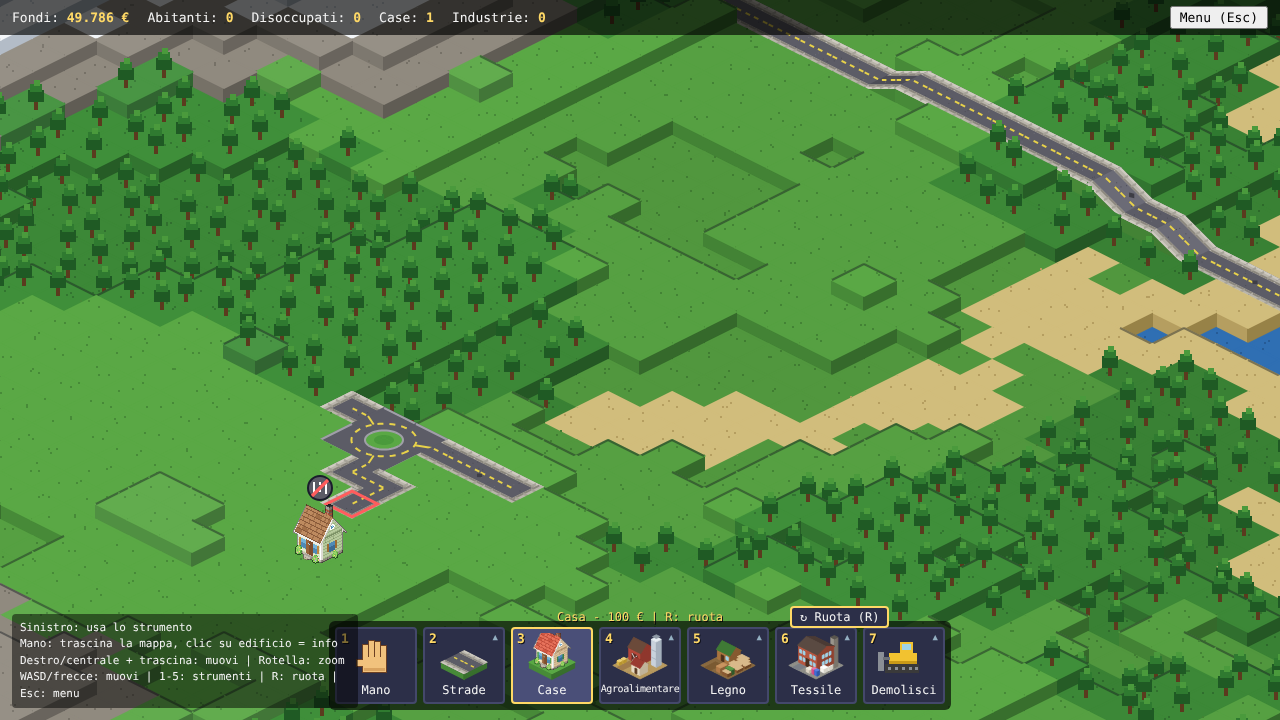
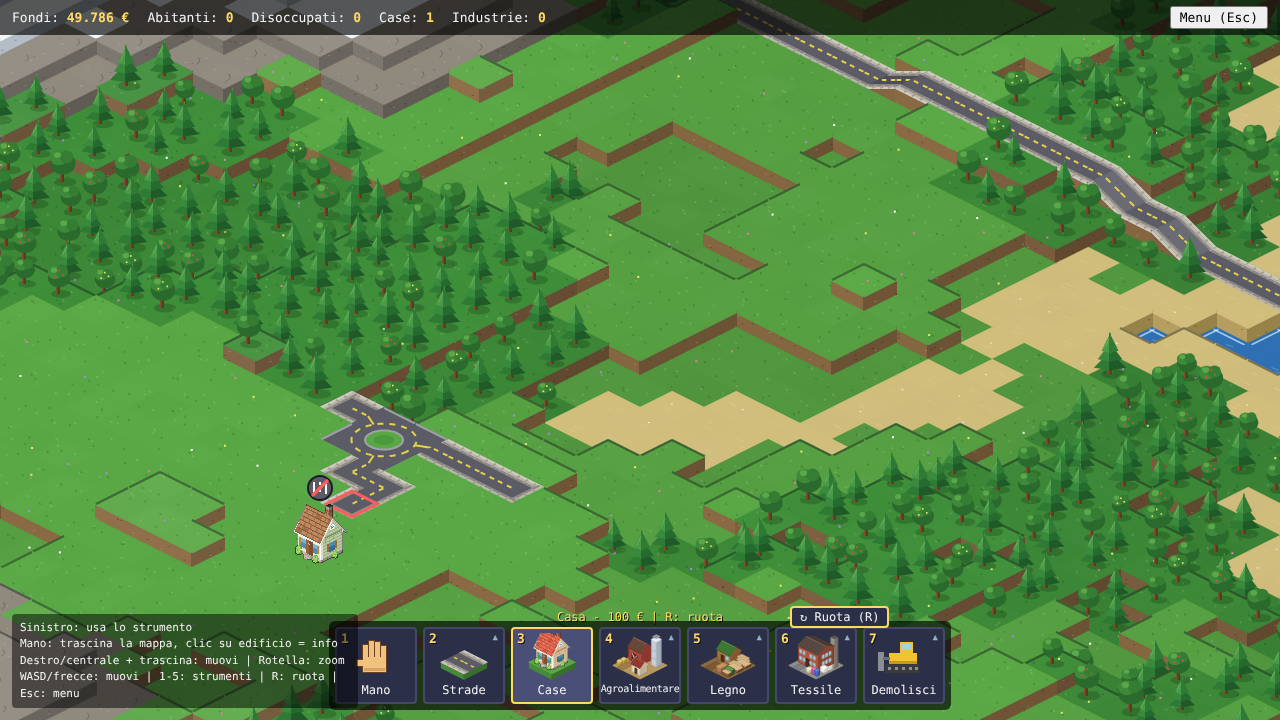
Grafica migliorata: edifici (mattoni, contorni, tegole, vetrate), terreno, scarpate, acqua, alberi, binari; tolti i tombini neri dalle strade
Claude-Session: https://claude.ai/code/session_01EPii4HtPudbMHHXMoA5j75

diff --git a/js/render.js b/js/render.js
@@ -33,6 +33,19 @@ function poly(c, pts, color) {
   c.closePath(); c.fill(); c.stroke();
 }
 
+// Livello di dettaglio: falso quando lo zoom è lontano (si disegna più semplice per andare veloci)
+let DETAIL = true;
+let FINE = true;    // dettagli minuti (ciuffi, sassi, alberi elaborati): solo da zoom 2 in su
+
+// linea sottile (mezzo pixel del mondo = 1 pixel dello schermo a zoom normale) con trasparenza
+function aline(c, a, b, color, alpha, w) {
+  const ga = c.globalAlpha;
+  c.globalAlpha = ga * (alpha == null ? 1 : alpha);
+  c.strokeStyle = color; c.lineWidth = w || 0.5;
+  c.beginPath(); c.moveTo(a[0], a[1]); c.lineTo(b[0], b[1]); c.stroke();
+  c.globalAlpha = ga;
+}
+
 function line(c, a, b, color) {
   c.strokeStyle = color; c.lineWidth = 1;
   c.beginPath(); c.moveTo(a[0], a[1]); c.lineTo(b[0], b[1]); c.stroke();
@@ -55,14 +68,82 @@ function surface(x, y) {
   return (u, v) => iso(x, y, u, v, heightIn(h, u, v));
 }
 
+// Alberi: pini e latifoglie (scelti a caso ma sempre uguali per ogni tile), con ombra a terra,
+// luce da sinistra e un po' di variazione di grandezza. Da lontano la versione semplice.
 function drawTree(c, sx, sy, x, y) {
   const ox = Math.round((hash(x, y, 5) - 0.5) * 10);
   const oy = Math.round((hash(x, y, 9) - 0.5) * 4);
   const bx = Math.round(sx) + ox, by = Math.round(sy) + 8 + oy;
-  c.fillStyle = '#5b3a1e'; c.fillRect(bx - 1, by - 3, 2, 4);
-  c.fillStyle = '#1f5a24'; c.fillRect(bx - 4, by - 9, 8, 6);
-  c.fillStyle = '#2f7a30'; c.fillRect(bx - 3, by - 12, 6, 4);
-  c.fillStyle = '#4a9a3c'; c.fillRect(bx - 1, by - 14, 3, 3);
+  if (!FINE) {
+    c.fillStyle = '#5b3a1e'; c.fillRect(bx - 1, by - 3, 2, 4);
+    c.fillStyle = '#1f5a24'; c.fillRect(bx - 4, by - 9, 8, 6);
+    c.fillStyle = '#2f7a30'; c.fillRect(bx - 3, by - 12, 6, 4);
+    c.fillStyle = '#4a9a3c'; c.fillRect(bx - 1, by - 14, 3, 3);
+    return;
+  }
+  const s = 0.85 + hash(x, y, 17) * 0.35;
+  const fillEll = (cx, cy, rx, ry, col) => { c.fillStyle = col; c.beginPath(); c.ellipse(cx, cy, rx, ry, 0, 0, Math.PI * 2); c.fill(); };
+  fillEll(bx + 1.5, by, 5 * s, 2 * s, 'rgba(10,30,10,0.22)');                       // ombra
+  c.fillStyle = '#5b3a1e'; c.fillRect(bx - 1, by - 4 * s, 2, 4 * s);                  // tronco
+  c.fillStyle = '#7a5230'; c.fillRect(bx - 1, by - 4 * s, 0.75, 4 * s);
+  if (hash(x, y, 13) < 0.55) {   // pino: tre piani di rami, metà al sole e metà in ombra
+    for (let i = 0; i < 3; i++) {
+      const w = (6 - i * 1.5) * s, yb = by - (3 + i * 3.6) * s, yt = yb - 6 * s;
+      poly(c, [[bx - w, yb], [bx, yt], [bx, yb + 1]], ['#2f7a35', '#3a8a3e', '#4a9a48'][i]);
+      poly(c, [[bx, yt], [bx + w, yb], [bx, yb + 1]], ['#1f5a28', '#256a2e', '#2f7a35'][i]);
+    }
+    aline(c, [bx - 0.5, by - 15 * s], [bx - 2.5, by - 11 * s], '#7ac06a', 0.6);
+  } else {       // latifoglia: chioma tonda a palle, luce in alto a sinistra
+    const cy = by - 9 * s;
+    fillEll(bx + 0.5, cy + 1, 5.5 * s, 4.8 * s, '#2a6a2c');
+    fillEll(bx - 1.5 * s, cy - 1.5 * s, 3.6 * s, 3.2 * s, '#3f8a3a');
+    fillEll(bx + 2 * s, cy - 2 * s, 3 * s, 2.8 * s, '#367d34');
+    fillEll(bx - 2 * s, cy - 2.8 * s, 1.6 * s, 1.3 * s, '#5aa84a');
+    if (hash(x, y, 19) > 0.7) for (const [fx, fy] of [[-2, 0], [2, -1], [0, -3]])   // frutti o fiori
+      { c.fillStyle = hash(x, y, 23) > 0.5 ? '#e84a4a' : '#f2e66a'; c.fillRect(bx + fx * s, cy + fy * s, 0.8, 0.8); }
+  }
+}
+
+// Piccoli dettagli sul terreno (solo da vicino): ciuffi d'erba e fiori, increspature della sabbia,
+// crepe e sassi sulla roccia, brillii sulla neve, onde sull'acqua
+function terrainDetail(c, x, y, t, P, col) {
+  const H = k => hash(x, y, k);
+  const dot = (u, v, color, w, h) => { const p = P(u, v); c.fillStyle = color; c.fillRect(p[0], p[1], w || 0.5, h || 0.5); };
+  if (t.type === T.GRASS || t.type === T.FOREST) {
+    for (let i = 0; i < 4; i++) {
+      const u = 0.1 + H(20 + i) * 0.8, v = 0.1 + H(40 + i) * 0.8, p = P(u, v);
+      c.fillStyle = i % 2 ? shadeC(col[0], 0.18) : col[1];
+      c.fillRect(p[0], p[1] - 1, 0.5, 1); c.fillRect(p[0] + 0.5, p[1] - 0.5, 0.5, 0.5);
+    }
+    if (H(61) > 0.78) dot(0.2 + H(62) * 0.6, 0.2 + H(63) * 0.6, ['#ffffff', '#f2e66a', '#e87aa8', '#a98ae8'][Math.floor(H(64) * 4)], 1, 1);
+  } else if (t.type === T.SAND) {
+    for (let i = 0; i < 2; i++) {
+      const u = 0.15 + H(30 + i) * 0.6, v = 0.2 + H(50 + i) * 0.6;
+      aline(c, P(u, v), P(u + 0.22, v), shadeC(col[0], 0.15), 0.8);
+    }
+    if (H(66) > 0.7) dot(0.3 + H(67) * 0.4, 0.3 + H(68) * 0.4, '#f6f1e0', 1, 0.5);   // conchiglia
+  } else if (t.type === T.ROCK) {
+    const u = 0.2 + H(31) * 0.5, v = 0.2 + H(32) * 0.5;
+    aline(c, P(u, v), P(u + 0.15, v + 0.1), col[2], 0.7); aline(c, P(u + 0.15, v + 0.1), P(u + 0.2, v + 0.25), col[2], 0.7);
+    for (let i = 0; i < 3; i++) dot(0.1 + H(70 + i) * 0.8, 0.1 + H(75 + i) * 0.8, i ? shadeC(col[0], 0.2) : col[1], 1, 0.5);
+  } else if (t.type === T.SNOW) {
+    for (let i = 0; i < 3; i++) dot(0.1 + H(80 + i) * 0.8, 0.1 + H(85 + i) * 0.8, i ? '#ffffff' : '#c8d8ea');
+  } else if (t.type === T.WATER) {
+    for (let i = 0; i < 2; i++) {
+      const u = 0.1 + H(90 + i) * 0.6, v = 0.15 + H(95 + i) * 0.7;
+      aline(c, P(u, v), P(u + 0.18, v - 0.04), '#5f9bd6', 0.8);
+    }
+  }
+}
+
+// Colore della parete di terra sotto un tile (le scarpate d'erba mostrano la terra sotto)
+const WALL_COLORS = {
+  [T.GRASS]: ['#8a6a44', '#6f5536'], [T.FOREST]: ['#7d6040', '#654c32'],
+};
+function wallColor(t, side, col) {
+  const w = WALL_COLORS[t.type];
+  if (!w) return col[side];
+  return shadeC(w[side - 1], Math.max(-0.3, Math.min(0.2, (t.elev - 3) * 0.04)));
 }
 
 // ---------- Percorsi ----------
@@ -123,7 +204,7 @@ function armLine(c, P, d, s0, s1, o, color) {
 
 // Strada asfaltata
 function drawRoad(c, P, links, x, y, detail) {
-  if (detail) asphaltGrain(c, P, x || 0, y || 0, '#6c6c76', '#4e4e57');
+  if (detail) asphaltGrain(c, P, x || 0, y || 0, '#666670', '#54545d');
   sidewalks(c, P, links, detail);
   const n = links.filter(Boolean).length;
   if (!detail) { if (n <= 2) for (let d = 0; d < 4; d++) if (links[d]) line(c, P(0.5, 0.5), P(...MID_UV[d]), LANE_COLOR); return; }
@@ -136,15 +217,11 @@ function drawRoad(c, P, links, x, y, detail) {
     const at = (s, o) => P(0.5 + dx * s - dy * o, 0.5 + dy * s + dx * o);
     line(c, at(0.36, 0.02), at(0.36, 0.33), '#e8e8e8');
   }
-  if (detail && n <= 2 && hash(x || 0, y || 0, 91) > 0.82) {      // tombino
-    const u = 0.3 + hash(x, y, 92) * 0.4, v = 0.3 + hash(x, y, 93) * 0.4;
-    poly(c, [P(u - 0.05, v), P(u, v - 0.05), P(u + 0.05, v), P(u, v + 0.05)], '#3e3e46');
-  }
 }
 
 // Strada a senso unico: come la strada, con le frecce bianche nella direzione di marcia
 function drawOneway(c, P, links, dir, x, y, detail) {
-  if (detail) asphaltGrain(c, P, x || 0, y || 0, '#6c6c76', '#4e4e57');
+  if (detail) asphaltGrain(c, P, x || 0, y || 0, '#666670', '#54545d');
   sidewalks(c, P, links, detail);
   const { dx, dy } = DIRS[dir ?? 1];
   const at = (s, o) => P(0.5 + dx * s - dy * o, 0.5 + dy * s + dx * o);   // s lungo la freccia, o di lato
@@ -218,8 +295,18 @@ function drawRail(c, P, links) {
     if (dx) rect(Math.min(0.5, 0.5 + dx * 0.5), 0.5 - w, Math.max(0.5, 0.5 + dx * 0.5), 0.5 + w, BALLAST);
     else rect(0.5 - w, Math.min(0.5, 0.5 + dy * 0.5), 0.5 + w, Math.max(0.5, 0.5 + dy * 0.5), BALLAST);
   }
-  for (const d of arms) for (const s of [0.08, 0.25, 0.42]) line(c, at(d, s, -0.24), at(d, s, 0.24), SLEEPER);
-  for (const d of arms) for (const o of [-0.12, 0.12]) line(c, at(d, 0, o), at(d, 0.5, o), STEEL);
+  if (DETAIL) for (let i = 0; i < 10; i++) {                                     // ghiaia della massicciata
+    const p = P(0.22 + ((i * 37) % 10) / 18, 0.22 + ((i * 53) % 10) / 18);
+    c.fillStyle = i % 2 ? '#a59a8a' : '#6f6658'; c.fillRect(p[0], p[1], 0.5, 0.5);
+  }
+  for (const d of arms) for (const s of [0.08, 0.25, 0.42]) {
+    line(c, at(d, s, -0.24), at(d, s, 0.24), SLEEPER);
+    if (DETAIL) aline(c, at(d, s - 0.02, -0.24), at(d, s - 0.02, 0.24), '#8a6440', 0.8);   // luce sulle traversine
+  }
+  for (const d of arms) for (const o of [-0.12, 0.12]) {
+    line(c, at(d, 0, o), at(d, 0.5, o), STEEL);
+    if (DETAIL) aline(c, at(d, 0, o + 0.03), at(d, 0.5, o + 0.03), '#6b7178', 0.8);          // ombra della rotaia
+  }
 }
 
 // Campo coltivabile: terra arata con file di piante. crop = coltura della fattoria (null se il
@@ -344,12 +431,30 @@ function drawHouse(c, sx, sy, variant, rot) {
 }
 
 // Parallelepipedo da (u0, v0) a (u1, v1) rispetto all'angolo (ax, ay), alla quota base, alto hp pixel
+// Con il dettaglio: righe leggere sui muri (mattoni / doghe), spigolo davanti illuminato,
+// ombra alla base e contorno scuro come nella pixel art.
 function box(c, ax, ay, base, u0, v0, u1, v1, hp, col) {
   const top = base + hp / STEP;
   const P = (u, v, h) => iso(ax, ay, u, v, h);
   poly(c, [P(u0, v1, base), P(u1, v1, base), P(u1, v1, top), P(u0, v1, top)], col.l); // lato sinistro
   poly(c, [P(u1, v1, base), P(u1, v0, base), P(u1, v0, top), P(u1, v1, top)], col.r); // lato destro
+  if (DETAIL && hp >= 7 && !col.plain) {
+    for (let z = 3; z < hp - 1.5; z += 3) {
+      const h = base + z / STEP;
+      aline(c, P(u0, v1, h), P(u1, v1, h), '#000000', 0.09);
+      aline(c, P(u1, v1, h), P(u1, v0, h), '#000000', 0.09);
+    }
+  }
   if (col.t) poly(c, [P(u0, v0, top), P(u1, v0, top), P(u1, v1, top), P(u0, v1, top)], col.t);   // sopra
+  if (DETAIL) {
+    aline(c, P(u1, v1, base), P(u1, v1, top), '#ffffff', 0.35);                     // spigolo davanti
+    if (col.t) { aline(c, P(u0, v1, top), P(u1, v1, top), '#ffffff', 0.3); aline(c, P(u1, v1, top), P(u1, v0, top), '#ffffff', 0.2); }
+    aline(c, P(u0, v1, base), P(u1, v1, base), '#000000', 0.45);                    // base
+    aline(c, P(u1, v1, base), P(u1, v0, base), '#000000', 0.45);
+    aline(c, P(u0, v1, base), P(u0, v1, top), '#000000', 0.4);                      // contorno
+    aline(c, P(u1, v0, base), P(u1, v0, top), '#000000', 0.4);
+    if (col.t) { aline(c, P(u0, v1, top), P(u0, v0, top), '#000000', 0.3); aline(c, P(u0, v0, top), P(u1, v0, top), '#000000', 0.3); }
+  }
   return top;
 }
 
@@ -362,12 +467,21 @@ function gableRoof(c, ax, ay, top, u0, v0, u1, v1, rh, col, alongV) {
     poly(c, [P(u0, v0, top), P(u1, v0, top), P(u1, vm, ridge), P(u0, vm, ridge)], col.back);
     poly(c, [P(u1, v1, top), P(u1, v0, top), P(u1, vm, ridge)], col.gable);
     poly(c, [P(u0, v1, top), P(u1, v1, top), P(u1, vm, ridge), P(u0, vm, ridge)], col.roof);
+    if (DETAIL) roofLines(c, P(u0, v1, top), P(u1, v1, top), P(u0, vm, ridge), P(u1, vm, ridge));
   } else { // colmo lungo v (edificio ruotato)
     const um = (u0 + u1) / 2;
     poly(c, [P(u0, v0, top), P(u0, v1, top), P(um, v1, ridge), P(um, v0, ridge)], col.back);
     poly(c, [P(u0, v1, top), P(u1, v1, top), P(um, v1, ridge)], col.gableL || col.gable);
     poly(c, [P(u1, v0, top), P(u1, v1, top), P(um, v1, ridge), P(um, v0, ridge)], col.roof);
+    if (DETAIL) roofLines(c, P(u1, v0, top), P(u1, v1, top), P(um, v0, ridge), P(um, v1, ridge));
   }
+}
+// file di tegole parallele alla gronda (a-b), colmo (c1-c2) chiaro, gronda scura
+function roofLines(c, a, b, c1, c2) {
+  const lerp = (p, q, f) => [p[0] + (q[0] - p[0]) * f, p[1] + (q[1] - p[1]) * f];
+  for (const f of [0.22, 0.44, 0.66, 0.88]) aline(c, lerp(a, c1, f), lerp(b, c2, f), '#000000', 0.16);
+  aline(c, c1, c2, '#ffffff', 0.4);
+  aline(c, a, b, '#000000', 0.45);
 }
 
 // ---------- Edifici grandi ruotabili ----------
@@ -383,7 +497,9 @@ function rotBox(bx, r) {
 // quadrilatero piano sul terreno (vialetti)
 function groundRect(c, ax, ay, base, bx, r, color) {
   const [u0, v0, u1, v1] = rotBox(bx, r);
-  poly(c, [iso(ax, ay, u0, v0, base), iso(ax, ay, u1, v0, base), iso(ax, ay, u1, v1, base), iso(ax, ay, u0, v1, base)], color);
+  const q = [iso(ax, ay, u0, v0, base), iso(ax, ay, u1, v0, base), iso(ax, ay, u1, v1, base), iso(ax, ay, u0, v1, base)];
+  poly(c, q, color);
+  if (DETAIL) for (let k = 0; k < 4; k++) aline(c, q[k], q[(k + 1) % 4], '#000000', 0.18);
 }
 // porta/insegna su una faccia (+v o +u) della parte; si vede solo se dopo la rotazione guarda verso di noi
 function drawDoor(c, ax, ay, base, r, bx, d) {
@@ -396,6 +512,15 @@ function drawDoor(c, ax, ay, base, r, bx, d) {
   const q = [iso(ax, ay, A[0], A[1], z0), iso(ax, ay, B[0], B[1], z0), iso(ax, ay, B[0], B[1], z1), iso(ax, ay, A[0], A[1], z1)];
   poly(c, q, d.color);
   if (d.cross) { line(c, q[0], q[2], '#f2f5f8'); line(c, q[1], q[3], '#f2f5f8'); }
+  if (!DETAIL) return;
+  const lerp = (p, r2, f) => [p[0] + (r2[0] - p[0]) * f, p[1] + (r2[1] - p[1]) * f];
+  if (d.color === '#9fd3e8') {                       // vetrate: divisori, riflesso in alto
+    const n = Math.max(1, Math.round(Math.hypot(q[1][0] - q[0][0], q[1][1] - q[0][1]) / 5));
+    for (let k = 1; k < n; k++) aline(c, lerp(q[0], q[1], k / n), lerp(q[3], q[2], k / n), '#e8f4fa', 0.8);
+    aline(c, lerp(q[3], q[0], 0.25), lerp(q[2], q[1], 0.25), '#ffffff', 0.55);
+  }
+  aline(c, q[0], q[1], '#000000', 0.35); aline(c, q[1], q[2], '#000000', 0.35);
+  aline(c, q[2], q[3], '#000000', 0.35); aline(c, q[3], q[0], '#000000', 0.35);
 }
 function drawParts(c, ax, ay, base, r, parts) {
   const items = parts.map(p => { const b = rotBox(p.box, r); return { p, b, depth: b[2] + b[3] }; })
@@ -797,19 +922,50 @@ function drawBakery(c, x, y, base, r) {
 // ---------- Tile ----------
 // Parete sul lato davanti verso la direzione d (1 = destra/SE, 2 = sinistra/SW):
 // va dal bordo del tile fino al bordo del vicino (o al suolo fuori mappa)
-function drawWall(c, x, y, h, d, color) {
+// lip = colore del bordo in cima (l'erba che sporge sopra la terra); con il dettaglio si vedono gli strati
+function drawWall(c, x, y, h, d, color, lip) {
   const [ka, kb] = d === 1 ? [1, 2] : [3, 2];
   const na = neighborCornerHeight(x, y, d, ka), nb = neighborCornerHeight(x, y, d, kb);
   const ba = Math.min(h[ka], na), bb = Math.min(h[kb], nb);
   if (h[ka] <= ba && h[kb] <= bb) return;
   const [ua, va] = CORNERS[ka], [ub, vb] = CORNERS[kb];
   poly(c, [iso(x, y, ua, va, h[ka]), iso(x, y, ub, vb, h[kb]), iso(x, y, ub, vb, bb), iso(x, y, ua, va, ba)], color);
+  if (!DETAIL) return;
+  if (FINE) for (let k = 1; h[ka] - k > ba + 0.1 && h[kb] - k > bb + 0.1; k++)               // strati
+    aline(c, iso(x, y, ua, va, h[ka] - k), iso(x, y, ub, vb, h[kb] - k), '#000000', 0.16);
+  if (FINE) for (let k = 0; k < 3; k++) {                                          // sassi nella parete
+    const f = hash(x * 7 + d, y, 110 + k), z = hash(x, y * 3 + d, 120 + k);
+    const za = ba + (h[ka] - ba) * z, zb = bb + (h[kb] - bb) * z;
+    if (h[ka] - ba < 0.6) break;
+    const p = iso(x, y, ua + (ub - ua) * f, va + (vb - va) * f, za + (zb - za) * f);
+    c.fillStyle = shadeC(color, k % 2 ? 0.2 : -0.25); c.fillRect(p[0], p[1], 1, 0.5);
+  }
+  if (lip) { aline(c, iso(x, y, ua, va, h[ka]), iso(x, y, ub, vb, h[kb]), lip, 1, 1.4); }   // bordo d'erba
+  aline(c, iso(x, y, ua, va, ba), iso(x, y, ub, vb, bb), '#000000', 0.3);         // ombra alla base
 }
 
 // Colore della superficie di un percorso: più chiaro/scuro se è una rampa
 function slopeShade(x, y, colors) {
   const r = rampDir(x, y);
   return r < 0 ? colors[0] : (r === 0 || r === 3 ? colors[1] : colors[2]);
+}
+
+// shade() con la memoria: nei disegni ripetuti (erba, sassi, pareti) non si ricalcola il colore
+const shadeMem = new Map();
+function shadeC(hex, f) {
+  const k = hex + f;
+  let v = shadeMem.get(k);
+  if (!v) { v = shade(hex, f); shadeMem.set(k, v); }
+  return v;
+}
+
+// Tono leggermente diverso per ogni tile (5 gradini, in memoria)
+const varyCache = new Map();
+function varyTone(color, r) {
+  const k = color + ((r * 5) | 0);
+  let v = varyCache.get(k);
+  if (!v) { v = shade(color, (((r * 5) | 0) - 2) * 0.005); varyCache.set(k, v); }
+  return v;
 }
 
 // Colori del terreno un po' più chiari in alto e più scuri in basso: così si capisce la quota
@@ -832,8 +988,9 @@ function drawTile(c, x, y, detail, onlyTop) {
   const P = (u, v) => iso(x, y, u, v, heightIn(h, u, v));
 
   if (!onlyTop) {
-    drawWall(c, x, y, h, 2, col[1]); // sinistra, verso (x, y+1)
-    drawWall(c, x, y, h, 1, col[2]); // destra, verso (x+1, y)
+    const lip = (t.type === T.GRASS || t.type === T.FOREST || t.type === T.SNOW) && !t.path ? col[0] : null;
+    drawWall(c, x, y, h, 2, wallColor(t, 1, col), lip); // sinistra, verso (x, y+1)
+    drawWall(c, x, y, h, 1, wallColor(t, 2, col), lip); // destra, verso (x+1, y)
   }
 
   let top = col[0];
@@ -842,7 +999,16 @@ function drawTile(c, x, y, detail, onlyTop) {
   else if (t.path === 'dirt') top = slopeShade(x, y, DIRT_COLORS);
   else if (t.field) top = SOIL;
   else if (t.building && GROUND[t.building.kind === 'livestock' ? t.building.animal : t.building.kind]) top = GROUND[t.building.kind === 'livestock' ? t.building.animal : t.building.kind];
+  else if (detail && t.type !== T.WATER) top = varyTone(top, hash(x, y, 7));   // un po' di variazione: il prato non sembra una scacchiera
   poly(c, [P(0, 0), P(1, 0), P(1, 1), P(0, 1)], top);
+  if (detail && t.type === T.WATER) {                    // schiuma lungo la riva
+    for (let d = 0; d < 4; d++) {
+      const nx = x + DIRS[d].dx, ny = y + DIRS[d].dy;
+      if (!inMap(nx, ny) || game.map[ny][nx].type === T.WATER) continue;
+      const [A, B] = EDGE_UV[d], inw = [-DIRS[d].dx * 0.08, -DIRS[d].dy * 0.08];
+      aline(c, P(A[0] + inw[0], A[1] + inw[1]), P(B[0] + inw[0], B[1] + inw[1]), '#d8eef8', 0.7, 0.8);
+    }
+  }
 
   // bordo scuro sui lati dietro dove il terreno scende: si vede subito che dietro c'è un salto
   if (!onlyTop && t.type !== T.WATER) {
@@ -870,14 +1036,7 @@ function drawTile(c, x, y, detail, onlyTop) {
 
   const sx = (x - y) * TW / 2;
   const sy = (x + y) * TH / 2 - t.elev * STEP;
-  if (detail && !onlyTop && !t.building) {
-    c.fillStyle = col[1];
-    for (let i = 0; i < 3; i++) {
-      const px = Math.round(sx + (hash(x, y, 20 + i) - 0.5) * 16);
-      const py = Math.round(sy + 5 + (hash(x, y, 40 + i) - 0.5) * 6);
-      c.fillRect(px, py, 1, 1);
-    }
-  }
+  if (detail && FINE && !onlyTop && !t.building) terrainDetail(c, x, y, t, P, col);
 
   if (t.building) { drawBuildingOn(c, x, y, t.building); return; }
   if (t.type === T.FOREST && !onlyTop) drawTree(c, sx, sy, x, y);
@@ -1083,6 +1242,7 @@ function drawFrame() {
   const z = zoomLevel();
   ctx.setTransform(z, 0, 0, z, Math.round(cam.x), Math.round(cam.y));
   ctx.imageSmoothingEnabled = false;
+  DETAIL = z >= 1; FINE = z >= 2;
 
   const r = visibleRange();
   const detail = z >= 1;
@@ -1135,6 +1295,7 @@ function drawFrame() {
   }
   if (game.fieldMode) drawFieldArea(ctx);
   drawWorkerIcons(ctx);
+  DETAIL = true; FINE = true;   // icone e altri disegni fuori dal fotogramma: sempre dettagliati
 }
 
 // Contorno giallo dell'edificio selezionato (pannello aperto)

diff --git a/CLAUDE.md b/CLAUDE.md
@@ -69,6 +69,7 @@ Gioco city builder isometrico in stile retro, in JavaScript + Canvas 2D, impacch
 - `js/sprites.js`: `drawSprite(c, name, col, row, wx, wy)` con (wx, wy) = angolo in alto del tile; restituisce false finché l'immagine non è caricata (si usa il disegno di riserva). `onSpritesLoaded` (ui.js) rifà le icone.
 - Veicoli: `tools/sprites/vehicles.py` (stesso metodo della casa) crea `vehicles.png`: colonne = direzione di marcia (DIRS 0..3), righe = berlina, utilitaria, furgone; ancora = centro del veicolo a terra. Carrozzeria (e striscia del furgone) in colore maschera (r 255, g 0, b = tono*40): `tintedSprite(name, colore)` la ricolora al volo (copie in memoria), `drawSpriteImage` la disegna; `vehicleDir(v)` dal segmento in corso; `v.model` 0/1 a caso per le auto.
 - Strade (disegnate nel codice, non sprite, così vanno su rampe e ponti): grana dell'asfalto, marciapiedi lastricati con cordolo sui lati liberi, angoli di marciapiede tra due bracci collegati, mezzeria gialla tratteggiata (niente agli incroci, strisce di stop all'ingresso), tombini; autostrada con linee di bordo; terra con sassolini e ciuffi d'erba. Da lontano (`detail` falso, zoom < 1) la versione semplice per non rallentare.
+- Grafica generale (render.js): `DETAIL` (zoom >= 1) e `FINE` (zoom >= 2) decidono quanto dettaglio disegnare (da lontano semplice per la velocità; icone sempre dettagliate). `box` ha righe di mattoni/doghe, spigolo chiaro, ombra alla base e contorno; `gableRoof` file di tegole e colmo (`roofLines`); `drawDoor` cornici e vetrate con divisori e riflesso; `drawWall` scarpate di terra sotto l'erba (`wallColor`) con bordo d'erba, strati e sassi; `terrainDetail` ciuffi e fiori, sabbia, crepe nella roccia, neve, onde; schiuma sulle rive; alberi pini/latifoglie con ombra (`drawTree`); binari con ghiaia. `aline` = linea sottile con trasparenza, `shadeC` = shade con memoria (usarlo nei disegni ripetuti). Niente tombini sulle strade: l'utente li vedeva come punti neri.
 - Casa: `tools/sprites/house.py` (Python + Pillow) crea `house.png` da un piccolo modello 3D "fotografato" pixel per pixel con scale di toni (muri a doghe, tetto a tegole, comignolo, finestre con persiane, porta, gradino, vialetto, cespugli). L'utente vuole pixel art più dettagliata; la casa è la prima prova, poi un edificio alla volta.
 
 ## Strade speciali e ponti
